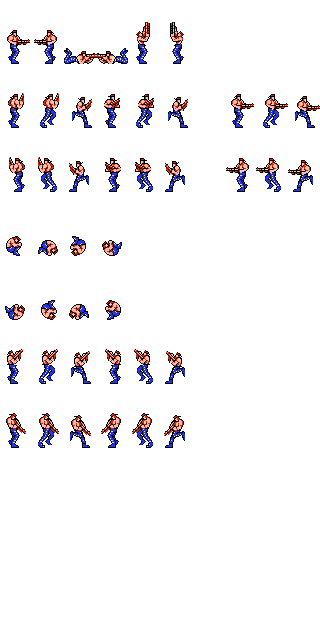
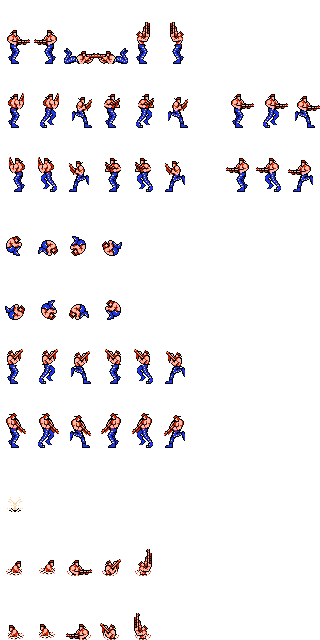
added all anims for swimming

diff --git a/02-Bubble/Player.cpp b/02-Bubble/Player.cpp
@@ -20,7 +20,9 @@ enum States
 enum PlayerAnims
 {
 	STAND_LEFT, STAND_RIGHT, MOVE_LEFT, MOVE_RIGHT, MOVE_LEFT_AIM, MOVE_RIGHT_AIM, AIM_UP_LOOK_LEFT, AIM_UP_LOOK_RIGHT, CROUCH_LOOK_LEFT, 
-	CROUCH_LOOK_RIGHT, AIM_UP_WALK_RIGHT, AIM_UP_WALK_LEFT, AIM_DOWN_WALK_RIGHT, AIM_DOWN_WALK_LEFT, AIRBONE_LEFT, AIRBONE_RIGHT
+	CROUCH_LOOK_RIGHT, AIM_UP_WALK_RIGHT, AIM_UP_WALK_LEFT, AIM_DOWN_WALK_RIGHT, AIM_DOWN_WALK_LEFT, AIRBONE_LEFT, AIRBONE_RIGHT,
+	DROPPED, UNDERWATER, SWIM_LEFT, SWIM_RIGHT, SWIM_AIM_LEFT, SWIM_AIM_RIGHT, SWIM_AIM_UPRIGHT, SWIM_AIM_UPLEFT, SWIM_AIM_UP_LOOK_LEFT, SWIM_AIM_UP_LOOK_RIGHT,
+	ANIM_DYING, ANIM_DEAD
 };
 
 enum LookingTo
@@ -38,10 +40,12 @@ void Player::init(const glm::ivec2 &tileMapPos, ShaderProgram &shaderProgram)
 {
 	bJumping = false;
 	bShooting = false;
+	bWater = false;
 	lookingTo = LOOKING_RIGHT;
 	life = 2;
 	state = ALIVE;
 	projectile = RANK1;
+	LandedFrame = 15;
 	spritesheet.loadFromFile("images/blueguy.png", TEXTURE_PIXEL_FORMAT_RGBA);
 	spritesheet.setWrapS(GL_CLAMP_TO_EDGE);
 	spritesheet.setWrapT(GL_CLAMP_TO_EDGE);
@@ -125,6 +129,35 @@ void Player::init(const glm::ivec2 &tileMapPos, ShaderProgram &shaderProgram)
 		sprite->addKeyframe(AIRBONE_LEFT, glm::vec2(0.1f, 0.4f));
 		sprite->addKeyframe(AIRBONE_LEFT, glm::vec2(0.2f, 0.4f));
 		sprite->addKeyframe(AIRBONE_LEFT, glm::vec2(0.3f, 0.4f));
+
+		sprite->setAnimationSpeed(DROPPED, 8);
+		sprite->addKeyframe(DROPPED, glm::vec2(0.0f, 0.7f));
+
+		sprite->setAnimationSpeed(SWIM_LEFT, 8);
+		sprite->addKeyframe(SWIM_LEFT, glm::vec2(0.0f, 0.9f));
+		sprite->addKeyframe(SWIM_LEFT, glm::vec2(0.1f, 0.9f));
+
+		sprite->setAnimationSpeed(SWIM_RIGHT, 8);
+		sprite->addKeyframe(SWIM_RIGHT, glm::vec2(0.0f, 0.8f));
+		sprite->addKeyframe(SWIM_RIGHT, glm::vec2(0.1f, 0.8f));
+
+		sprite->setAnimationSpeed(SWIM_AIM_RIGHT, 8);
+		sprite->addKeyframe(SWIM_AIM_RIGHT, glm::vec2(0.2f, 0.8f));
+
+		sprite->setAnimationSpeed(SWIM_AIM_UPRIGHT, 8);
+		sprite->addKeyframe(SWIM_AIM_UPRIGHT, glm::vec2(0.3f, 0.8f));
+
+		sprite->setAnimationSpeed(SWIM_AIM_UP_LOOK_RIGHT, 8);
+		sprite->addKeyframe(SWIM_AIM_UP_LOOK_RIGHT, glm::vec2(0.4f, 0.8f));
+
+		sprite->setAnimationSpeed(SWIM_AIM_LEFT, 8);
+		sprite->addKeyframe(SWIM_AIM_LEFT, glm::vec2(0.2f, 0.9f));
+
+		sprite->setAnimationSpeed(SWIM_AIM_UPLEFT, 8);
+		sprite->addKeyframe(SWIM_AIM_UPLEFT, glm::vec2(0.3f, 0.9f));
+
+		sprite->setAnimationSpeed(SWIM_AIM_UP_LOOK_LEFT, 8);
+		sprite->addKeyframe(SWIM_AIM_UP_LOOK_LEFT, glm::vec2(0.4f, 0.9f));
 		
 	sprite->changeAnimation(1);
 	tileMapDispl = tileMapPos;
@@ -148,14 +181,17 @@ void Player::update(int deltaTime, float left, float right, float bottom, float 
 					sprite->changeAnimation(AIRBONE_LEFT);
 
 		}
+
 		if (Game::instance().getKey('a')) {
 			bShooting = true;
 		}
 		else bShooting = false;
 		if (Game::instance().getSpecialKey(GLUT_KEY_LEFT) && Game::instance().getSpecialKey(GLUT_KEY_UP))
 		{
-			if (sprite->animation() != AIM_UP_WALK_LEFT && !bJumping)
-				sprite->changeAnimation(AIM_UP_WALK_LEFT);
+			if (sprite->animation() != AIM_UP_WALK_LEFT && !bJumping) {
+				if (bWater) sprite->changeAnimation(SWIM_AIM_UPLEFT);
+				else sprite->changeAnimation(AIM_UP_WALK_LEFT);
+			}
 			posPlayer.x -= 2;
 			lookingTo = LOOKING_LEFT;
 			if (map->collisionMoveLeft(posPlayer, glm::ivec2(32, 58), &posPlayer.y) || posPlayer.x - 2 <= left)
@@ -166,8 +202,10 @@ void Player::update(int deltaTime, float left, float right, float bottom, float 
 		}
 		else if (Game::instance().getSpecialKey(GLUT_KEY_RIGHT) && Game::instance().getSpecialKey(GLUT_KEY_UP))
 		{
-			if (sprite->animation() != AIM_UP_WALK_RIGHT && !bJumping)
-				sprite->changeAnimation(AIM_UP_WALK_RIGHT);
+			if (sprite->animation() != AIM_UP_WALK_RIGHT && !bJumping) {
+				if (bWater) sprite->changeAnimation(SWIM_AIM_UPRIGHT);
+				else sprite->changeAnimation(AIM_UP_WALK_RIGHT);
+			}
 			posPlayer.x += 2;
 			lookingTo = LOOKING_RIGHT;
 			if (map->collisionMoveLeft(posPlayer, glm::ivec2(32, 58), &posPlayer.y))
@@ -178,7 +216,7 @@ void Player::update(int deltaTime, float left, float right, float bottom, float 
 		}
 		else if (Game::instance().getSpecialKey(GLUT_KEY_LEFT) && Game::instance().getSpecialKey(GLUT_KEY_DOWN))
 		{
-			if (sprite->animation() != AIM_DOWN_WALK_LEFT && !bJumping)
+			if (sprite->animation() != AIM_DOWN_WALK_LEFT && !bJumping && !bWater)
 				sprite->changeAnimation(AIM_DOWN_WALK_LEFT);
 			posPlayer.x -= 2;
 			lookingTo = LOOKING_LEFT;
@@ -190,7 +228,7 @@ void Player::update(int deltaTime, float left, float right, float bottom, float 
 		}
 		else if (Game::instance().getSpecialKey(GLUT_KEY_RIGHT) && Game::instance().getSpecialKey(GLUT_KEY_DOWN))
 		{
-			if (sprite->animation() != AIM_DOWN_WALK_RIGHT && !bJumping)
+			if (sprite->animation() != AIM_DOWN_WALK_RIGHT && !bJumping && !bWater)
 				sprite->changeAnimation(AIM_DOWN_WALK_RIGHT);
 			posPlayer.x += 2;
 			lookingTo = LOOKING_RIGHT;
@@ -203,10 +241,15 @@ void Player::update(int deltaTime, float left, float right, float bottom, float 
 		else if (Game::instance().getSpecialKey(GLUT_KEY_LEFT))
 		{
 			if ((sprite->animation() != MOVE_LEFT && !bShooting || sprite->animation() != MOVE_LEFT_AIM && bShooting) && !bJumping)
-				if (bShooting)
-					sprite->changeAnimation(MOVE_LEFT_AIM);
+				if (bShooting) {
+					if (bWater) sprite->changeAnimation(SWIM_AIM_LEFT);
+					else sprite->changeAnimation(MOVE_LEFT_AIM);
+				}
 				else
-					sprite->changeAnimation(MOVE_LEFT);
+					if (bWater) {
+						if (sprite->animation() != SWIM_LEFT) sprite->changeAnimation(SWIM_LEFT);
+					}
+					else sprite->changeAnimation(MOVE_LEFT);
 			posPlayer.x -= 2;
 			lookingTo = LOOKING_LEFT;
 			if (map->collisionMoveLeft(posPlayer, glm::ivec2(32, 58), &posPlayer.y) || posPlayer.x - 2 <= left)
@@ -222,10 +265,15 @@ void Player::update(int deltaTime, float left, float right, float bottom, float 
 		else if (Game::instance().getSpecialKey(GLUT_KEY_RIGHT))
 		{
 			if ((sprite->animation() != MOVE_RIGHT && !bShooting || sprite->animation() != MOVE_RIGHT_AIM && bShooting) && !bJumping)
-				if (bShooting)
-					sprite->changeAnimation(MOVE_RIGHT_AIM);
+				if (bShooting) {
+					if (bWater) sprite->changeAnimation(SWIM_AIM_RIGHT);
+					else sprite->changeAnimation(MOVE_RIGHT_AIM);
+				}
 				else
-					sprite->changeAnimation(MOVE_RIGHT);
+					if (bWater) {
+						if (sprite->animation() != SWIM_RIGHT) sprite->changeAnimation(SWIM_RIGHT);
+					}
+					else sprite->changeAnimation(MOVE_RIGHT);
 			posPlayer.x += 2;
 			lookingTo = LOOKING_RIGHT;
 			if (map->collisionMoveRight(posPlayer, glm::ivec2(32, 58), &posPlayer.y))
@@ -236,21 +284,44 @@ void Player::update(int deltaTime, float left, float right, float bottom, float 
 		}
 		else if (Game::instance().getSpecialKey(GLUT_KEY_UP))
 		{
-			if (lookingTo == LOOKING_LEFT && !bJumping)
-				sprite->changeAnimation(AIM_UP_LOOK_LEFT);
-			else if (lookingTo == LOOKING_RIGHT && !bJumping)
-				sprite->changeAnimation(AIM_UP_LOOK_RIGHT);
+			if (lookingTo == LOOKING_LEFT && !bJumping) {
+				if (bWater) sprite->changeAnimation(SWIM_AIM_UP_LOOK_LEFT);
+				else sprite->changeAnimation(AIM_UP_LOOK_LEFT);
+			}
+			else if (lookingTo == LOOKING_RIGHT && !bJumping) {
+				if (bWater) sprite->changeAnimation(SWIM_AIM_UP_LOOK_RIGHT);
+				else sprite->changeAnimation(AIM_UP_LOOK_RIGHT);
+			}
+
 		}
 		else if (Game::instance().getSpecialKey(GLUT_KEY_DOWN))
 		{
-			if (lookingTo == LOOKING_LEFT && !bJumping)
+			if (lookingTo == LOOKING_LEFT && !bJumping && !bWater)
 				sprite->changeAnimation(CROUCH_LOOK_LEFT);
-			else if (lookingTo == LOOKING_RIGHT && !bJumping)
+			else if (lookingTo == LOOKING_RIGHT && !bJumping && !bWater)
 				sprite->changeAnimation(CROUCH_LOOK_RIGHT);
 		}
 		else
 		{
-			if (sprite->animation() == MOVE_LEFT)
+			if (bWater && bShooting) {
+				if (lookingTo == LOOKING_LEFT) sprite->changeAnimation(SWIM_AIM_LEFT);
+				else sprite->changeAnimation(SWIM_AIM_RIGHT);
+			}
+			else if (sprite->animation() == SWIM_AIM_UP_LOOK_LEFT)
+				sprite->changeAnimation(SWIM_LEFT);
+			else if (sprite->animation() == SWIM_AIM_UP_LOOK_RIGHT)
+				sprite->changeAnimation(SWIM_RIGHT);
+			else if (sprite->animation() == SWIM_AIM_LEFT && !bShooting)
+				sprite->changeAnimation(SWIM_LEFT);
+			else if (sprite->animation() == SWIM_AIM_RIGHT && !bShooting)
+				sprite->changeAnimation(SWIM_RIGHT);
+			else if (sprite->animation() == DROPPED && lookingTo == LOOKING_LEFT) 
+				sprite->changeAnimation(SWIM_LEFT);
+			else if (sprite->animation() == DROPPED && lookingTo == LOOKING_RIGHT)
+				sprite->changeAnimation(SWIM_RIGHT);
+
+
+			else if (sprite->animation() == MOVE_LEFT)
 				sprite->changeAnimation(STAND_LEFT);
 			else if (sprite->animation() == MOVE_RIGHT)
 				sprite->changeAnimation(STAND_RIGHT);
@@ -307,9 +378,12 @@ void Player::update(int deltaTime, float left, float right, float bottom, float 
 			{
 				if (map->isSwimming(aux, glm::ivec2(10, 28)))
 				{
-					sprite->changeAnimation(AIRBONE_RIGHT);
+					bWater = true;
 				}
 				else {
+					bWater = false;
+					justLanded = true;
+					LandedFrame = 15;
 					if (Game::instance().getKey(' '))
 					{
 						bJumping = true;
@@ -319,6 +393,17 @@ void Player::update(int deltaTime, float left, float right, float bottom, float 
 				}
 			}
 			posPlayer = aux + glm::ivec2(-10, -30);
+		}
+	}
+	if (bWater) {
+		if (justLanded) {
+			justLanded = false;
+			LandedFrame = 15;
+			sprite->changeAnimation(DROPPED);
+		}
+		if (LandedFrame > 0) {
+			LandedFrame -= 1;
+			sprite->changeAnimation(DROPPED);
 		}
 	}
 	else if (state == DEAD) {

diff --git a/02-Bubble/EnemyManager.cpp b/02-Bubble/EnemyManager.cpp
@@ -9,7 +9,9 @@
 enum PlayerAnims
 {
 	STAND_LEFT, STAND_RIGHT, MOVE_LEFT, MOVE_RIGHT, MOVE_LEFT_AIM, MOVE_RIGHT_AIM, AIM_UP_LOOK_LEFT, AIM_UP_LOOK_RIGHT, CROUCH_LOOK_LEFT,
-	CROUCH_LOOK_RIGHT, AIM_UP_WALK_RIGHT, AIM_UP_WALK_LEFT, AIM_DOWN_WALK_RIGHT, AIM_DOWN_WALK_LEFT, AIRBONE_LEFT, AIRBONE_RIGHT
+	CROUCH_LOOK_RIGHT, AIM_UP_WALK_RIGHT, AIM_UP_WALK_LEFT, AIM_DOWN_WALK_RIGHT, AIM_DOWN_WALK_LEFT, AIRBONE_LEFT, AIRBONE_RIGHT,
+	DROPPED, UNDERWATER, SWIM_LEFT, SWIM_RIGHT, SWIM_AIM_LEFT, SWIM_AIM_RIGHT, SWIM_AIM_UPRIGHT, SWIM_AIM_UPLEFT, SWIM_AIM_UP_LOOK_LEFT, SWIM_AIM_UP_LOOK_RIGHT,
+	ANIM_DYING, ANIM_DEAD
 };
 
 enum BridgeAnims
@@ -295,8 +297,8 @@ void EnemyManager::spawnProjectilePlayer(glm::ivec2 position)
 		else newPos = glm::ivec2{ 0, 1 };
 	}
 	else {
-		if (dir == STAND_LEFT || dir == AIRBONE_LEFT) newPos = glm::ivec2{ -1,0 };
-		else if (dir == STAND_RIGHT || dir == AIRBONE_RIGHT) newPos = glm::ivec2{ 1,0 };
+		if (dir == STAND_LEFT || dir == AIRBONE_LEFT || dir == SWIM_AIM_LEFT) newPos = glm::ivec2{ -1,0 };
+		else if (dir == STAND_RIGHT || dir == AIRBONE_RIGHT || dir == SWIM_AIM_RIGHT) newPos = glm::ivec2{ 1,0 };
 	}
 
 	projectile->init(tilemap, texProgram, 6, newPos);
@@ -315,84 +317,84 @@ void EnemyManager::spawnProjectileSPREADPlayer(glm::ivec2 position)
 	int dir = player->sprite->animation();
 	if (Game::instance().getSpecialKey(GLUT_KEY_LEFT) && Game::instance().getSpecialKey(GLUT_KEY_UP)) {
 		newPos = glm::vec2{ -1,-1 };
-		newPos2 = glm::vec2{ -1,-1 };
-		newPos3 = glm::vec2{ -1,-1 };
-		newPos4 = glm::vec2{ -1,-1 };
-		newPos5 = glm::vec2{ -1,-1 };
+		newPos2 = glm::vec2{ -0.85,-1.15 };
+		newPos3 = glm::vec2{ -0.70,-1.30 };
+		newPos4 = glm::vec2{ -1.15,-0.85 };
+		newPos5 = glm::vec2{ -1.30,-0.70 };
 	}
 	else if (Game::instance().getSpecialKey(GLUT_KEY_RIGHT) && Game::instance().getSpecialKey(GLUT_KEY_UP)) {
 		newPos = glm::vec2{ 1,-1 };
-		newPos2 = glm::vec2{ 1,-1 };
-		newPos3 = glm::vec2{ 1,-1 };
-		newPos4 = glm::vec2{ 1,-1 };
-		newPos5 = glm::vec2{ 1,-1 };
+		newPos2 = glm::vec2{ 0.85,-1.15 };
+		newPos3 = glm::vec2{ 0.70,-1.30 };
+		newPos4 = glm::vec2{ 1.15,-0.85 };
+		newPos5 = glm::vec2{ 1.30,-0.70 };
 
 	}
 	else if (Game::instance().getSpecialKey(GLUT_KEY_LEFT) && Game::instance().getSpecialKey(GLUT_KEY_DOWN)) {
 		newPos = glm::vec2{ -1,1 };
-		newPos2 = glm::vec2{ -1,1 };
-		newPos3 = glm::vec2{ -1,1 };
-		newPos4 = glm::vec2{ -1,1 };
-		newPos5 = glm::vec2{ -1,1 };
+		newPos2 = glm::vec2{ -0.85,1.15 };
+		newPos3 = glm::vec2{ -0.70,1.30 };
+		newPos4 = glm::vec2{ -1.15,0.85 };
+		newPos5 = glm::vec2{ -1.30,0.70 };
 	}
 	else if (Game::instance().getSpecialKey(GLUT_KEY_RIGHT) && Game::instance().getSpecialKey(GLUT_KEY_DOWN)) {
 		newPos = glm::vec2{ 1,1 };
-		newPos2 = glm::vec2{ 1,1 };
-		newPos3 = glm::vec2{ 1,1 };
-		newPos4 = glm::vec2{ 1,1 };
-		newPos5 = glm::vec2{ 1,1 };
+		newPos2 = glm::vec2{ 0.85,1.15 };
+		newPos3 = glm::vec2{ 0.70,1.30 };
+		newPos4 = glm::vec2{ 1.15,0.85 };
+		newPos5 = glm::vec2{ 1.30,0.70 };
 	}
 	else if (Game::instance().getSpecialKey(GLUT_KEY_LEFT)) {
 		newPos = glm::vec2{ -1,0 };
-		newPos2 = glm::vec2{ -1,0 };
-		newPos3 = glm::vec2{ -1,0 };
-		newPos4 = glm::vec2{ -1,0 };
-		newPos5 = glm::vec2{ -1,0 };
+		newPos2 = glm::vec2{ -1,0.15 };
+		newPos3 = glm::vec2{ -1,0.30 };
+		newPos4 = glm::vec2{ -1,-0.15 };
+		newPos5 = glm::vec2{ -1,-0.30 };
 	}
 	else if (Game::instance().getSpecialKey(GLUT_KEY_RIGHT)) {
 		newPos = glm::vec2{ 1,0 };
-		newPos2 = glm::vec2{ 1,0 };
-		newPos3 = glm::vec2{ 1,0 };
-		newPos4 = glm::vec2{ 1,0 };
-		newPos5 = glm::vec2{ 1,0 };
+		newPos2 = glm::vec2{ 1,0.15 };
+		newPos3 = glm::vec2{ 1,0.30 };
+		newPos4 = glm::vec2{ 1,-0.15 };
+		newPos5 = glm::vec2{ 1,-0.30 };
 	}
 	else if (Game::instance().getSpecialKey(GLUT_KEY_UP)) {
 		newPos = glm::vec2{ 0,-1 };
-		newPos2 = glm::vec2{ 0,-1 };
-		newPos3 = glm::vec2{ 0,-1 };
-		newPos4 = glm::vec2{ 0,-1 };
-		newPos5 = glm::vec2{ 0,-1 };
+		newPos2 = glm::vec2{ 0.15,-1 };
+		newPos3 = glm::vec2{ 0.30,-1 };
+		newPos4 = glm::vec2{ -0.15,-1 };
+		newPos5 = glm::vec2{ -0.30,-1 };
 	}
 	else if (Game::instance().getSpecialKey(GLUT_KEY_DOWN)) {
 		if (dir == CROUCH_LOOK_LEFT) {
 			newPos = glm::vec2{ -1,0 };
-			newPos2 = glm::vec2{ -1,0 };
-			newPos3 = glm::vec2{ -1,0 };
-			newPos4 = glm::vec2{ -1,0 };
-			newPos5 = glm::vec2{ -1,0 };
+			newPos2 = glm::vec2{ -1,0.15 };
+			newPos3 = glm::vec2{ -1,0.30 };
+			newPos4 = glm::vec2{ -1,-0.15 };
+			newPos5 = glm::vec2{ -1,-0.30 };
 		}
 		else if (dir == CROUCH_LOOK_RIGHT) {
 			newPos = glm::vec2{ 1,0 };
-			newPos2 = glm::vec2{ 1,0 };
-			newPos3 = glm::vec2{ 1,0 };
-			newPos4 = glm::vec2{ 1,0 };
-			newPos5 = glm::vec2{ 1,0 };
+			newPos2 = glm::vec2{ 1,0.15 };
+			newPos3 = glm::vec2{ 1,0.30 };
+			newPos4 = glm::vec2{ 1,-0.15 };
+			newPos5 = glm::vec2{ 1,-0.30 };
 		}
 		else {
 			newPos = glm::vec2{ 0, 1 };
-			newPos2 = glm::vec2{ 0, 1 };
-			newPos3 = glm::vec2{ 0, 1 };
-			newPos4 = glm::vec2{ 0, 1 };
-			newPos5 = glm::vec2{ 0, 1 };
+			newPos2 = glm::vec2{ 0.15, 1 };
+			newPos3 = glm::vec2{ 0.30, 1 };
+			newPos4 = glm::vec2{ -0.15, 1 };
+			newPos5 = glm::vec2{ -0.30, 1 };
 		}
 	}
 	else {
 		if (dir == STAND_LEFT || dir == AIRBONE_LEFT) {
 			newPos = glm::vec2{ -1,0 };
-			newPos2 = glm::vec2{ -1,0 };
-			newPos3 = glm::vec2{ -1,0 };
-			newPos4 = glm::vec2{ -1,0 };
-			newPos5 = glm::vec2{ -1,0 };
+			newPos2 = glm::vec2{ -1,0.15 };
+			newPos3 = glm::vec2{ -1,0.30 };
+			newPos4 = glm::vec2{ -1,-0.15 };
+			newPos5 = glm::vec2{ -1,-0.30 };
 		}
 		else if (dir == STAND_RIGHT || dir == AIRBONE_RIGHT) {
 			newPos = glm::vec2{ 1,0 };

diff --git a/02-Bubble/Player.h b/02-Bubble/Player.h
@@ -35,8 +35,11 @@ public:
 	int lookingTo;
 	int life;
 	int state;
+	int LandedFrame;
 	int projectile;
 	bool bBridge;
+	bool bWater;
+	bool justLanded;
 	glm::ivec2 posPlayer;
 	Sprite *sprite;
 	
